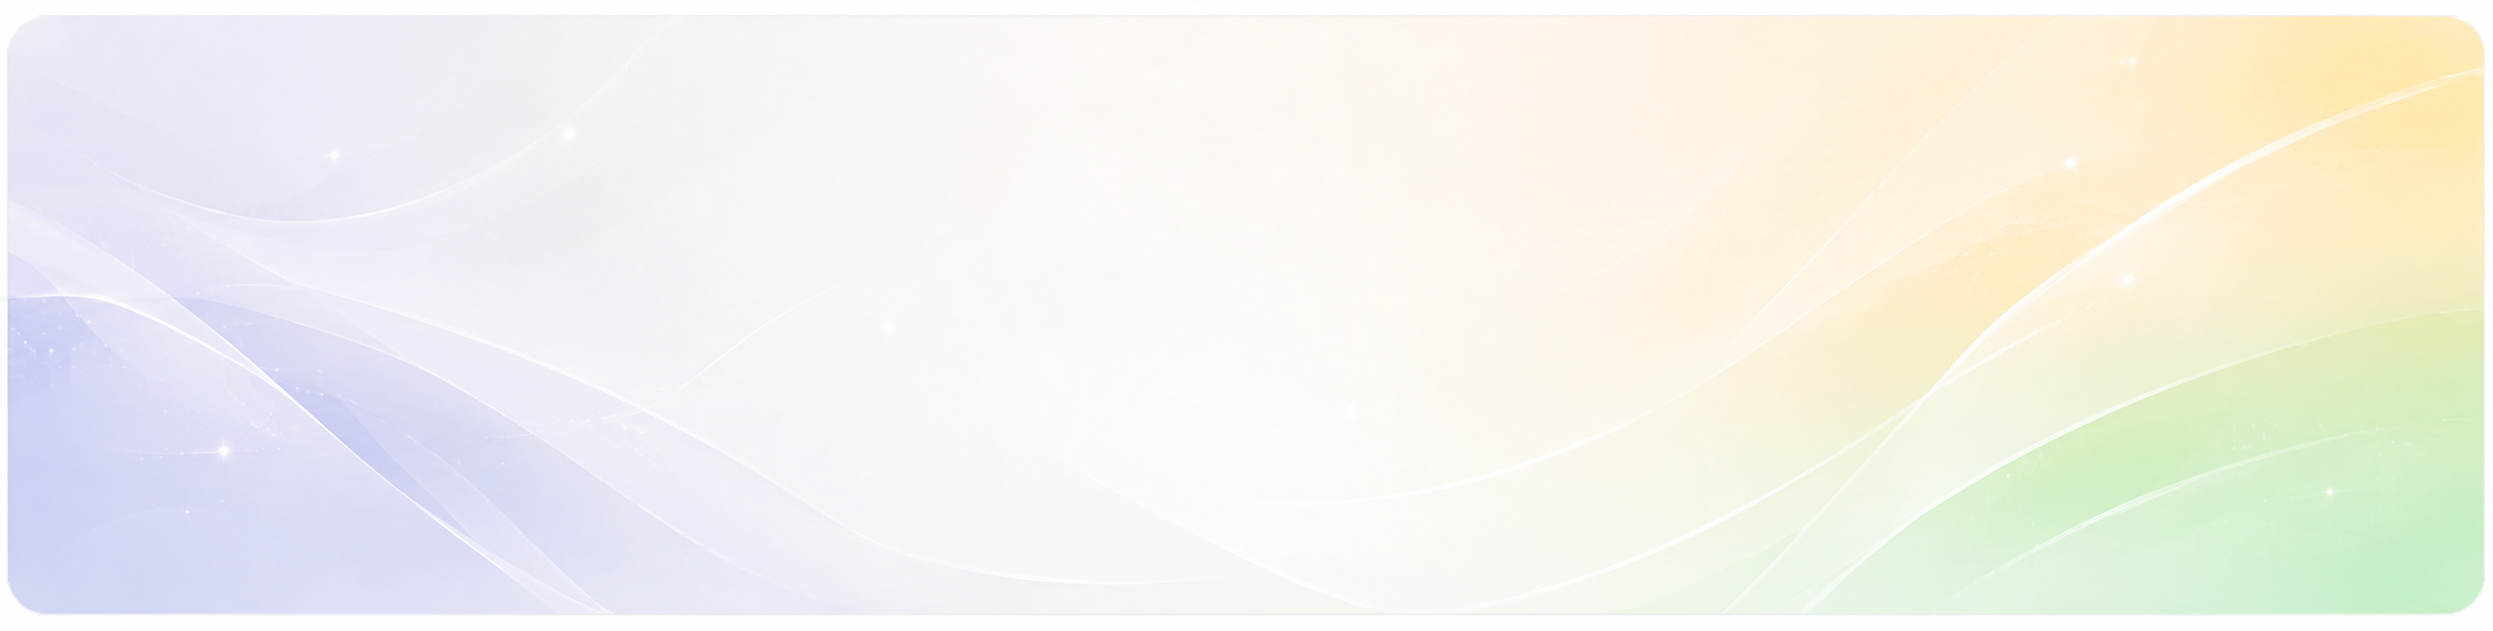
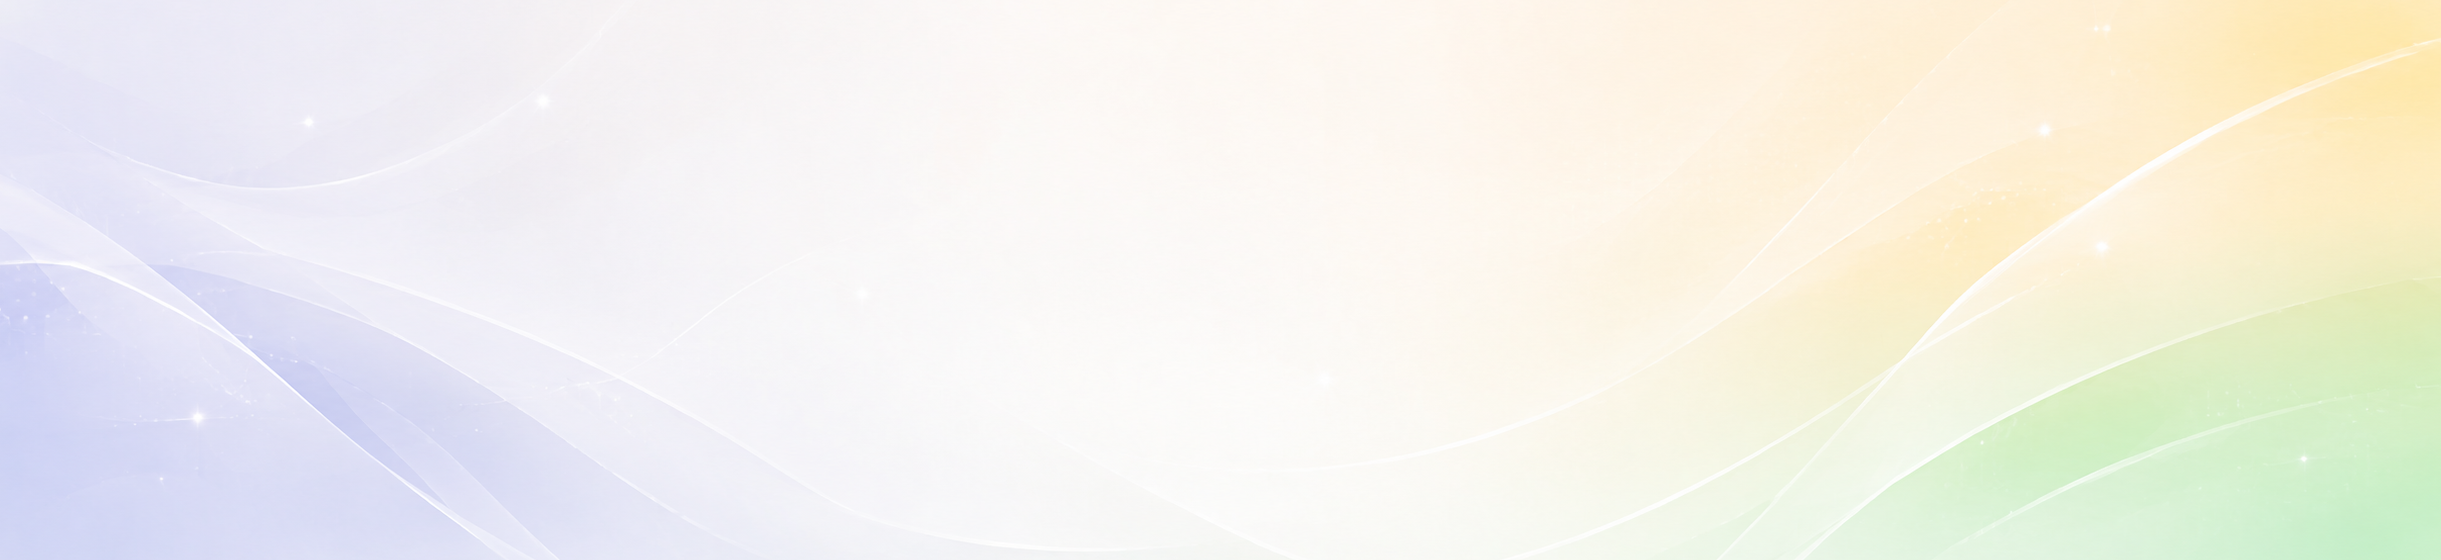
Ajusta fundo da secao de humor para preencher sem bordas brancas (v0.21.6).

diff --git a/LioConnecta/assets/css/components.css b/LioConnecta/assets/css/components.css
@@ -93,21 +93,28 @@
 }
 
 .mood-card--completed {
-  background: linear-gradient(180deg, #ffffff, #f4f9ff);
+  padding: 0;
+  gap: 0;
+  background: transparent;
+}
+
+.mood-card--completed h2 {
+  padding: 16px 18px 12px;
 }
 
 .mood-thankyou {
   display: grid;
   justify-items: center;
   gap: 10px;
-  padding: 18px 16px;
-  border-radius: 14px;
-  border: 1px solid #cfe0f2;
-  background-color: #f8fbff;
+  padding: 22px 18px 20px;
+  border: none;
+  border-radius: 0;
+  background-color: transparent;
   background-image: url("../img/bg_pesquisa_satisfacao.png");
   background-repeat: no-repeat;
   background-position: center;
-  background-size: cover;
+  background-size: 100% 100%;
+  overflow: hidden;
   text-align: center;
 }
 

diff --git a/LioConnecta/index.html b/LioConnecta/index.html
@@ -12,7 +12,7 @@
   <link rel="stylesheet" href="https://cdnjs.cloudflare.com/ajax/libs/font-awesome/6.5.2/css/all.min.css">
   <link rel="stylesheet" href="./assets/css/tokens.css?v=0.12.10">
   <link rel="stylesheet" href="./assets/css/base.css?v=0.12.10">
-  <link rel="stylesheet" href="./assets/css/components.css?v=0.21.4">
+  <link rel="stylesheet" href="./assets/css/components.css?v=0.21.6">
 </head>
 <body>
   <div class="page" id="app-shell">

diff --git a/LioConnecta/service-worker.js b/LioConnecta/service-worker.js
@@ -1,4 +1,4 @@
-const CACHE_NAME = "lioconnecta-static-v31";
+const CACHE_NAME = "lioconnecta-static-v32";
 const ASSETS = [
   "./",
   "./index.html",
